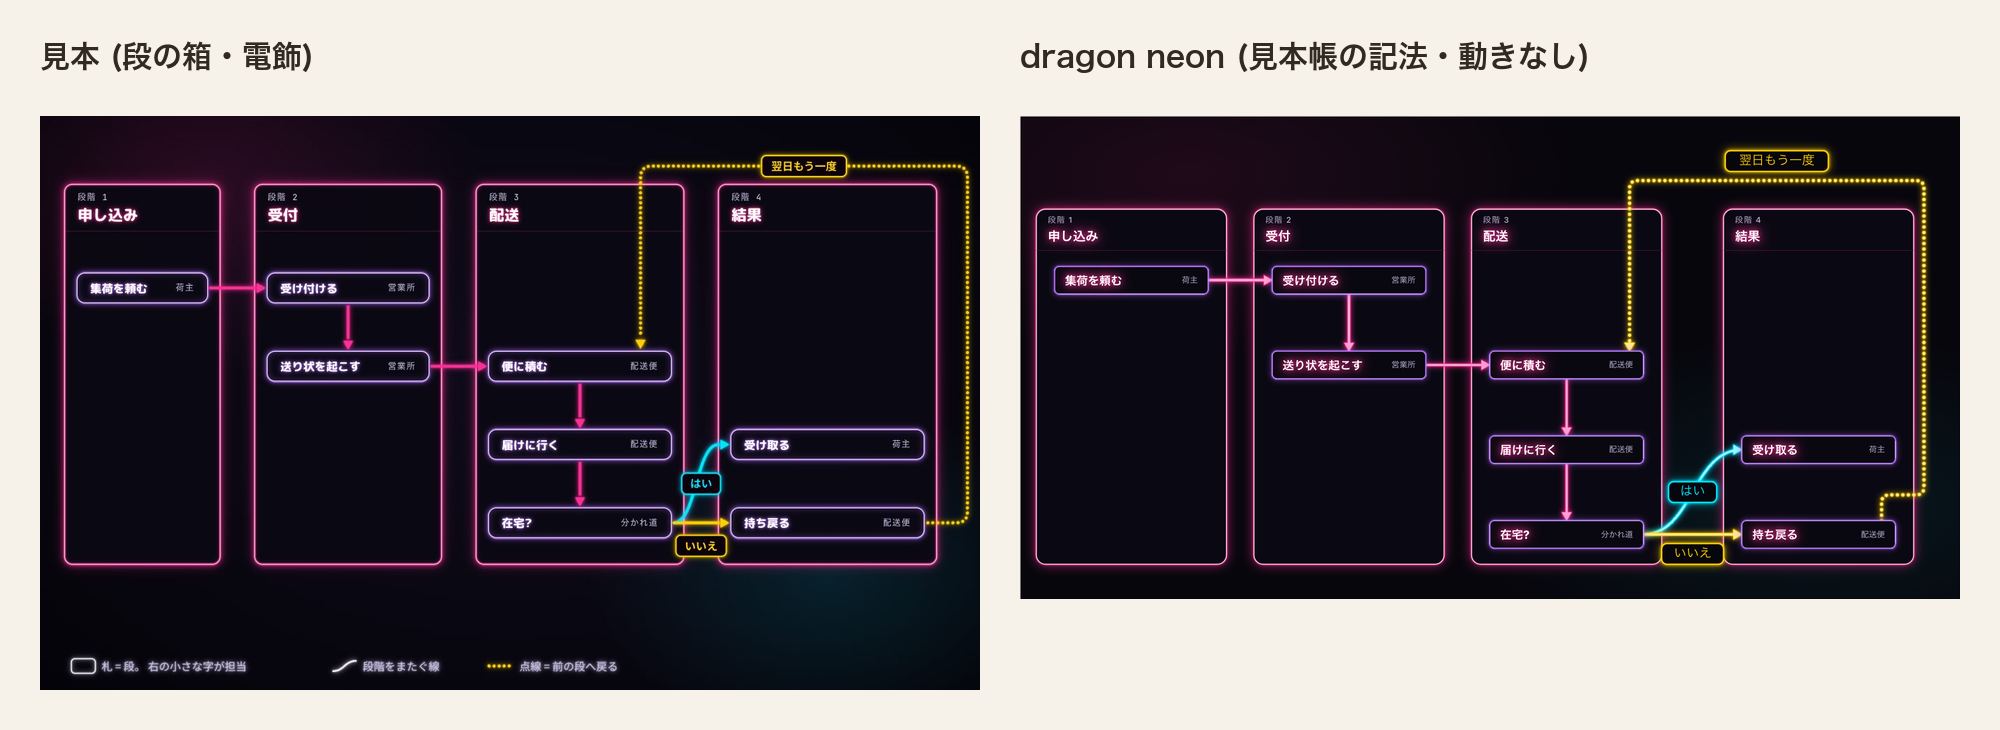
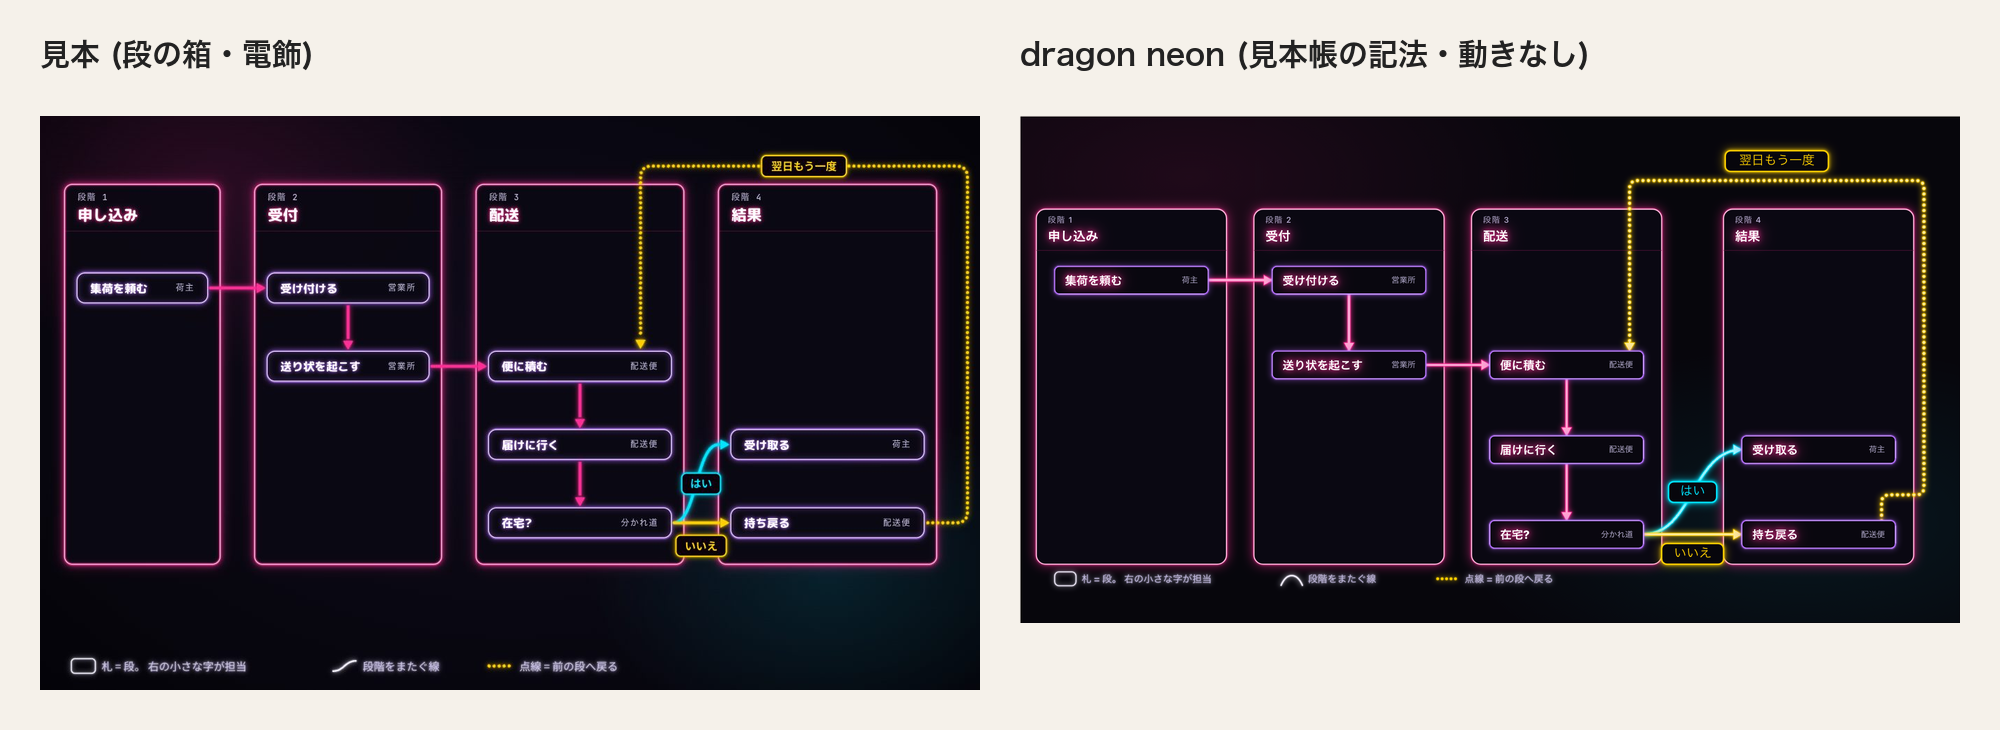
✨ feat(見本帳): 段の箱の見本に見本と同じ3項目の凡例を置く (#2831)
見本 docs/design/proposal/static/段箱-<意匠>.html の図の下の凡例と同じ 3 項目 (札 = 段。 右の小さな字が担当 / 段階をまたぐ線 / 点線 = 前の段へ戻る) を、見本帳の段の箱の記法と JSON に legend で足す。
印は cdl 0.125.0 の legend が持つ rounded-label / curved-line / dotted-line を使う。
固定の 7 意匠の段の箱では、角丸の枠を塗りなし、曲線を太さ 3 にし、図面と浮彫の凡例の字を見本の色にする。
点線は段の箱が描く前の段へ戻る線と同じ色で、浮彫は対比のため #966c22 を保つ。
7 つの意匠帳に凡例の行を足し、比較画像 7 枚を凡例を入れた形で撮り直した。

Constraint: 凡例の字の大きさ 17、角丸の枠 46 x 30 rx 9、曲線の形、項目の送り、凡例の位置は cdl の LEGEND_MARK_RENDERERS / layoutLegend が決めるため dragon では揃えない
Rejected: 浮彫の点線を見本の #c99a35 にする | 白い字との対比のため決めた戻る線の色 #966c22 と食い違う
Confidence: high
Scope-risk: narrow

Changed region(s): [[0.496, 0.7836, 0.992, 0.874], [0.496, 0.0603, 0.806, 0.1205], [0.0, 0.0301, 0.155, 0.1205]]

diff --git a/apps/playground-spa/src/lib/stage-theme-contract.test.ts b/apps/playground-spa/src/lib/stage-theme-contract.test.ts
@@ -7,6 +7,57 @@ const css = readFileSync(fileURLToPath(new URL("../styles/cdl-theme.css", import
 const fixedPalettes =
   ':is([data-cdl-palette="blueprint"], [data-cdl-palette="letterpress"], [data-cdl-palette="catalog"], [data-cdl-palette="terminal"], [data-cdl-palette="sketch"], [data-cdl-palette="neon"], [data-cdl-palette="relief"])';
 const fixedStages = `svg[data-cdl-stage]${fixedPalettes}:has([data-cdl-role="stage-column"])`;
+const legendColors = [
+  {
+    palette: "blueprint",
+    markProperty: "--er-ink",
+    mark: "#143a52",
+    dotted: "#a8431f",
+    text: "#4d7187",
+  },
+  {
+    palette: "letterpress",
+    markProperty: "--er-ink",
+    mark: "#1a1510",
+    dotted: "#1a1510",
+    text: "#6b6253",
+  },
+  {
+    palette: "catalog",
+    markProperty: "--theme-ground-ink",
+    mark: "#efe7d8",
+    dotted: "#e8705a",
+    text: "#a39a87",
+  },
+  {
+    palette: "terminal",
+    markProperty: "--theme-flow-mark",
+    mark: "#a6f0bd",
+    dotted: "#f5c451",
+    text: "#7f9186",
+  },
+  {
+    palette: "sketch",
+    markProperty: "--er-ink",
+    mark: "#2b2620",
+    dotted: "#2a5ca8",
+    text: "#6d6456",
+  },
+  {
+    palette: "neon",
+    markProperty: "--er-ink",
+    mark: "#f3eefe",
+    dotted: "#ffd000",
+    text: "#c4bce0",
+  },
+  {
+    palette: "relief",
+    markProperty: "--er-ink",
+    mark: "#463e33",
+    dotted: "#966c22",
+    text: "#7a7062",
+  },
+] as const;
 
 function ruleBody(selector: string): string {
   const start = css.indexOf(`${selector} {`);
@@ -44,6 +95,70 @@ describe("固定の 7 意匠の段の箱を見本の線で描く (#2831)", () =>
     expect(declaration(body, "stroke-width")).toBe("6 !important");
     expect(declaration(body, "stroke-dasharray")).toBe("0 9.6 !important");
     expect(declaration(body, "stroke-linecap")).toBe("round !important");
+  });
+
+  it("段の箱の凡例だけ、角丸枠を塗らず曲線を太さ 3 にする", () => {
+    const rounded = ruleBody(`${fixedStages} [data-cdl-legend-mark="rounded-label"] > rect`);
+    expect(declaration(rounded, "fill")).toBe("none");
+
+    const curved = ruleBody(`${fixedStages} [data-cdl-legend-mark="curved-line"] > path`);
+    expect(declaration(curved, "stroke-width")).toBe("3");
+  });
+
+  it.each(legendColors)(
+    "$palette の凡例を印 $mark・点線 $dotted・字 $text で描く",
+    ({ palette, markProperty, mark, dotted, text }) => {
+      const paletteBody = ruleBody(`svg[data-cdl-stage][data-cdl-palette="${palette}"]`);
+      expect(declaration(paletteBody, markProperty)).toBe(mark);
+      expect(declaration(paletteBody, "--er-own")).toBe(dotted);
+      const errorProperty = /^var\((--[^)]+)\)$/.exec(declaration(paletteBody, "--d-err"))?.[1];
+      expect(errorProperty, "戻り線が読む色の変数").toBeDefined();
+      if (!errorProperty) return;
+      expect(declaration(paletteBody, errorProperty)).toBe(dotted);
+
+      if (palette === "blueprint" || palette === "relief") {
+        const selector = `svg[data-cdl-stage]:is([data-cdl-palette="${palette}"]):has([data-cdl-role="stage-column"]) [data-cdl-role="legend-text"]`;
+        expect(declaration(ruleBody(selector), "fill")).toBe(text);
+        return;
+      }
+      const textProperty =
+        palette === "catalog"
+          ? "--theme-ground-type"
+          : palette === "terminal"
+            ? "--theme-legend-text"
+            : "--er-type";
+      expect(declaration(paletteBody, textProperty)).toBe(text);
+    },
+  );
+
+  it("凡例の枠と曲線は印色を、点線は戻り線色を読む", () => {
+    const palette = ruleBody('svg[data-cdl-stage][data-cdl-palette]');
+    expect(declaration(palette, "--d-text-primary")).toBe("var(--er-ink)");
+    expect(declaration(palette, "--cdl-text-mute")).toBe("var(--er-type)");
+
+    const legend = ruleBody(
+      'svg[data-cdl-stage][data-cdl-palette="relief"] [data-cdl-role="legend"]',
+    );
+    expect(declaration(legend, "--cdl-text-accent")).toBe(
+      "var(--theme-flow-mark, var(--d-text-primary))",
+    );
+    const dotted = ruleBody(
+      'svg[data-cdl-stage][data-cdl-palette="relief"] [data-cdl-legend-mark="dotted-line"]',
+    );
+    expect(declaration(dotted, "--cdl-text-accent")).toBe("var(--er-own)");
+
+    expect(
+      declaration(
+        ruleBody('svg[data-cdl-stage][data-cdl-palette="catalog"] [data-cdl-role="legend-text"]'),
+        "fill",
+      ),
+    ).toBe("var(--theme-ground-type)");
+    expect(
+      declaration(
+        ruleBody('svg[data-cdl-stage][data-cdl-palette="terminal"] [data-cdl-role="legend-text"]'),
+        "fill",
+      ),
+    ).toBe("var(--theme-legend-text)");
   });
 
   it("14 の枠の三角を横 17・縦 19 にする", () => {

diff --git a/apps/playground-spa/src/lib/catalog-value-coverage.test.ts b/apps/playground-spa/src/lib/catalog-value-coverage.test.ts
@@ -615,20 +615,14 @@ const 道の覆い方表: Record<string, 道の覆い方> = {
   "$.relations=off": { 種類: "既定", 別の値: "hover" },
   "$.theme": { 種類: "画面の切替", 選択肢: 配色の選択肢 },
   "$.palette=celadon": { 種類: "画面の切替", 選択肢: 配色の選択肢 },
-  // #2834 は見本帳の図を変えず、記法一覧と README で凡例を見せる。 10 種の印は schema と描画側の一覧を突き合わせる。
-  "$.legend": { 種類: "記法一覧", 理由: "凡例は記法一覧で見せる" },
-  "$.legend[].mark": { 種類: "記法一覧", 理由: "印は記法一覧で見せる" },
+  // 段の箱で使わない印は、記法一覧と README で見せる。10 種の印は schema と描画側の一覧を突き合わせる。
   "$.legend[].mark=arrow": { 種類: "記法一覧", 理由: "印の一覧は README で見せる" },
-  "$.legend[].mark=curved-line": { 種類: "記法一覧", 理由: "印の一覧は README で見せる" },
   "$.legend[].mark=diamond": { 種類: "記法一覧", 理由: "印の一覧は README で見せる" },
-  "$.legend[].mark=dotted-line": { 種類: "記法一覧", 理由: "印の一覧は README で見せる" },
   "$.legend[].mark=double-circle": { 種類: "記法一覧", 理由: "印の一覧は README で見せる" },
   "$.legend[].mark=filled-circle": { 種類: "記法一覧", 理由: "印の一覧は README で見せる" },
   "$.legend[].mark=numbered-circle": { 種類: "記法一覧", 理由: "印の一覧は README で見せる" },
-  "$.legend[].mark=rounded-label": { 種類: "記法一覧", 理由: "印の一覧は README で見せる" },
   "$.legend[].mark=solid-line": { 種類: "記法一覧", 理由: "印の一覧は README で見せる" },
   "$.legend[].mark=station": { 種類: "記法一覧", 理由: "印の一覧は README で見せる" },
-  "$.legend[].text": { 種類: "記法一覧", 理由: "説明は記法一覧で見せる" },
 };
 
 /**

diff --git a/apps/playground-spa/src/styles/cdl-theme.css b/apps/playground-spa/src/styles/cdl-theme.css
@@ -2717,6 +2717,23 @@ svg[data-cdl-stage]:is([data-cdl-palette="blueprint"], [data-cdl-palette="letter
   stroke-width: 5 !important;
 }
 
+/* 段の箱の凡例だけを見本の印へ寄せる。全図共通の凡例 (#2834) は変えない。 */
+svg[data-cdl-stage]:is([data-cdl-palette="blueprint"], [data-cdl-palette="letterpress"], [data-cdl-palette="catalog"], [data-cdl-palette="terminal"], [data-cdl-palette="sketch"], [data-cdl-palette="neon"], [data-cdl-palette="relief"]):has([data-cdl-role="stage-column"]) [data-cdl-legend-mark="rounded-label"] > rect {
+  fill: none;
+}
+
+svg[data-cdl-stage]:is([data-cdl-palette="blueprint"], [data-cdl-palette="letterpress"], [data-cdl-palette="catalog"], [data-cdl-palette="terminal"], [data-cdl-palette="sketch"], [data-cdl-palette="neon"], [data-cdl-palette="relief"]):has([data-cdl-role="stage-column"]) [data-cdl-legend-mark="curved-line"] > path {
+  stroke-width: 3;
+}
+
+svg[data-cdl-stage]:is([data-cdl-palette="blueprint"]):has([data-cdl-role="stage-column"]) [data-cdl-role="legend-text"] {
+  fill: #4d7187;
+}
+
+svg[data-cdl-stage]:is([data-cdl-palette="relief"]):has([data-cdl-role="stage-column"]) [data-cdl-role="legend-text"] {
+  fill: #7a7062;
+}
+
 /* 戻り線は丸い点を 9.6 ごとに置く。線の太さは主役と枝より 1 太い。 */
 svg[data-cdl-stage]:is([data-cdl-palette="blueprint"], [data-cdl-palette="letterpress"], [data-cdl-palette="catalog"], [data-cdl-palette="terminal"], [data-cdl-palette="sketch"], [data-cdl-palette="neon"], [data-cdl-palette="relief"]):has([data-cdl-role="stage-column"]) [data-cdl-role="edge-line"][stroke-dasharray="10 8"] {
   stroke-width: 6 !important;

diff --git a/packages/dragon/test/catalog-swimlane-stages.test.ts b/packages/dragon/test/catalog-swimlane-stages.test.ts
@@ -42,4 +42,33 @@ describe("見本帳の段階ごとの箱 (#2797)", () => {
     expect(home, "在宅? -> 受け取る の道筋").toBeDefined();
     expect(home).toMatch(/\bC\b/);
   });
+
+  it("見本と同じ順の3項目を記法に持ち、組み立てた凡例へ渡す", () => {
+    const item = 段階の見本()[0];
+    expect(item).toBeDefined();
+    if (!item) return;
+    expect(item.source).toContain(`legend:
+  - { mark: rounded-label, text: "札 = 段。 右の小さな字が担当" }
+  - { mark: curved-line, text: "段階をまたぐ線" }
+  - { mark: dotted-line, text: "点線 = 前の段へ戻る" }`);
+
+    const diagram = textDslToDiagram(item.source);
+    expect(diagram.legend).toEqual([
+      { mark: "rounded-label", text: "札 = 段。 右の小さな字が担当" },
+      { mark: "curved-line", text: "段階をまたぐ線" },
+      { mark: "dotted-line", text: "点線 = 前の段へ戻る" },
+    ]);
+    const markup = renderToStaticMarkup(createElement(CdlDiagramView, { diagram }));
+    expect(
+      [...markup.matchAll(/data-cdl-legend-mark="([^"]+)"/g)].map((match) => match[1]),
+    ).toEqual(["rounded-label", "curved-line", "dotted-line"]);
+    expect(markup).toMatch(
+      /data-cdl-legend-mark="rounded-label"[\s\S]*?<rect[^>]+stroke-width="2"/,
+    );
+    expect(markup).toMatch(
+      /data-cdl-legend-mark="dotted-line"[\s\S]*?<path[^>]+stroke-width="6"[^>]+stroke-linecap="round"[^>]+stroke-dasharray="0 9\.6"/,
+    );
+    expect(markup).toContain('stroke="var(--cdl-text-accent, #143a52)"');
+    expect(markup).toContain('fill="var(--cdl-text-mute, #4d7187)"');
+  });
 });

diff --git a/apps/playground-spa/src/topics/catalog/text-dsl.cdl.ts b/apps/playground-spa/src/topics/catalog/text-dsl.cdl.ts
@@ -403,6 +403,11 @@ flow:
   - 在宅? -> 持ち戻る: "いいえ" (error)
   - 持ち戻る -> 便に積む: "翌日もう一度" (error, dashed)
 
+legend:
+  - { mark: rounded-label, text: "札 = 段。 右の小さな字が担当" }
+  - { mark: curved-line, text: "段階をまたぐ線" }
+  - { mark: dotted-line, text: "点線 = 前の段へ戻る" }
+
 animation:
   - step: "申し込む" 1.2s
     focus: [集荷を頼む, 受け付ける, "集荷を頼む -> 受け付ける"]
@@ -455,6 +460,11 @@ export const sourceJson__textDslSwimlaneStages = `{
     { "from": "在宅?", "to": "受け取る", "label": "はい", "tone": "success" },
     { "from": "在宅?", "to": "持ち戻る", "label": "いいえ", "tone": "error" },
     { "from": "持ち戻る", "to": "便に積む", "label": "翌日もう一度", "tone": "error", "style": "dashed" }
+  ],
+  "legend": [
+    { "mark": "rounded-label", "text": "札 = 段。 右の小さな字が担当" },
+    { "mark": "curved-line", "text": "段階をまたぐ線" },
+    { "mark": "dotted-line", "text": "点線 = 前の段へ戻る" }
   ],
   "animation": [
     {

diff --git a/docs/design/blueprint/note.md b/docs/design/blueprint/note.md
@@ -39,6 +39,7 @@
 | 段階の見出し | 番号 `#3f6479`、名前 `#143a52` |
 | 札の右の字 | `#3f6479` |
 | 段の箱の線の札 | 線は主役と枝が 5、戻る点線が 6 の `0 9.6`、三角の矢じりが 17 × 19。「はい」は向きだけ `#1f7a6b`、「いいえ」と「翌日もう一度」は所有 `#a8431f` で塗る。字は縞 `#eef2f3`、角は 9、枠なし |
+| 段の箱の凡例 | 「札 = 段。 右の小さな字が担当」は角丸枠、「段階をまたぐ線」は曲線、「点線 = 前の段へ戻る」は丸い点線。枠と曲線は `#143a52`、点線は `#a8431f`、字は `#4d7187` |
 
 似た青系の線、型名、淡が隣り合わないように並べた。6 色は全て台の上で 3 以上の対比になる。
 描き手は処理の箱の枠を半分の濃さで描くが、図面の台の上では 2.66 となり、枠の下限 4.61 を割るため、

diff --git a/docs/design/terminal/note.md b/docs/design/terminal/note.md
@@ -57,6 +57,7 @@
 | 段階の見出し     | 番号 `#8a9b90`、名前 `#9ef0b4` に一 35% の `0 0 10px` の光 |
 | 札の右の字       | `#8a9b90` |
 | 段の箱の線の札   | 線は主役と枝が 5、戻る点線が 6 の `0 9.6`、三角の矢じりが 17 × 19。はいは二 `#c792ea`、いいえ・翌日もう一度は三 `#f5c451` の面。字は台 `#050b07`、角 4px、枠なし |
+| 段の箱の凡例     | 「札 = 段。 右の小さな字が担当」は角丸枠、「段階をまたぐ線」は曲線、「点線 = 前の段へ戻る」は丸い点線。枠と曲線は `#a6f0bd`、点線は `#f5c451`、字は `#7f9186` |
 
 描き手が札の `g` に置く `data-cdl-tone` から一・二・三を選ぶ。
 `data-cdl-edge-role="main"` は色みにかかわらず一で塗る。

diff --git a/docs/design/letterpress/note.md b/docs/design/letterpress/note.md
@@ -49,6 +49,7 @@
 | 段階の見出し | 番号 `#6b6253`、名前 `#1a1510` |
 | 札の右の字 | `#6b6253` |
 | 段の箱の線の札 | 線は主役と枝が 5、戻る点線が 6 の `0 9.6`、三角の矢じりが 17 × 19。「はい」「いいえ」「翌日もう一度」は墨 `#1a1510` で塗る。字は地 `#f0eadc`、角は 9、枠なし |
+| 段の箱の凡例 | 「札 = 段。 右の小さな字が担当」は角丸枠、「段階をまたぐ線」は曲線、「点線 = 前の段へ戻る」は丸い点線。枠・曲線・点線は `#1a1510`、字は `#6b6253` |
 
 描き手は処理の箱の枠を半分の濃さで描く。台と箱の面が同じ活版でも枠の下限 4.61 を保つため、
 固定の意匠では枠の濃さを 1 にする。

diff --git a/docs/design/neon/note.md b/docs/design/neon/note.md
@@ -51,6 +51,7 @@
 | 段階の見出し     | 番号 `#c4bce0`、名前 `#ffffff` に一の `0 0 5px` と一 60% の `0 0 12px` の光 |
 | 札の右の字       | `#c4bce0` |
 | 段の箱の線の札   | 線は主役と枝が 5、戻る点線が 6 の `0 9.6`、三角の矢じりが 17 × 19。台 `#07060c` の面。はいは二 `#00e5ff`、いいえ・翌日もう一度は三 `#ffd000` の字と 2.5 の枠、角 9px |
+| 段の箱の凡例     | 「札 = 段。 右の小さな字が担当」は角丸枠、「段階をまたぐ線」は曲線、「点線 = 前の段へ戻る」は丸い点線。枠と曲線は `#f3eefe`、点線は `#ffd000`、字は `#c4bce0` |
 
 ## 管と光
 

diff --git a/docs/design/sketch/note.md b/docs/design/sketch/note.md
@@ -51,6 +51,7 @@
 | 段階の見出し     | 番号 `#6d6456`、名前 `#2b2620` |
 | 札の右の字       | `#6d6456` |
 | 段の箱の線の札   | 線は主役と枝が 5、戻る点線が 6 の `0 9.6`、三角の矢じりが 17 × 19。はいは二 `#2f7d4f`、いいえ・翌日もう一度は三 `#2a5ca8` の面。字は行の面 `#fffdf7`、角 9px、枠なし |
+| 段の箱の凡例     | 「札 = 段。 右の小さな字が担当」は角丸枠、「段階をまたぐ線」は曲線、「点線 = 前の段へ戻る」は丸い点線。枠と曲線は `#2b2620`、点線は `#2a5ca8`、字は `#6d6456` |
 
 ## 線の揺れとペンの斜線
 

diff --git a/docs/design/catalog/note.md b/docs/design/catalog/note.md
@@ -56,6 +56,7 @@
 | 段階の見出し     | 番号 `#6f6757`、名前 `#1d242e` |
 | 札の右の字       | `#6f6757` |
 | 段の箱の線の札   | 線は主役と枝が 5、戻る点線が 6 の `0 9.6`、三角の矢じりが 17 × 19。はいは二 `#4fae9a`、いいえ・翌日もう一度は三 `#e8705a` の面。字は台 `#1b222c`、角 9px、枠なし |
+| 段の箱の凡例     | 「札 = 段。 右の小さな字が担当」は角丸枠、「段階をまたぐ線」は曲線、「点線 = 前の段へ戻る」は丸い点線。枠と曲線は `#efe7d8`、点線は `#e8705a`、字は `#a39a87` |
 
 ## 見送ったこと
 

diff --git a/docs/design/relief/note.md b/docs/design/relief/note.md
@@ -52,6 +52,7 @@
 | 段階の見出し     | 番号 `#685e51`、名前 `#463e33` |
 | 札の右の字       | `#685e51` |
 | 段の箱の線の札   | 線は主役と枝が 5、戻る点線が 6 の `0 9.6`、三角の矢じりが 17 × 19。はいは二 `#2f7a6e`、いいえ・翌日もう一度は三 `#966c22` の面。字は白 `#ffffff`、角 20px、枠なし |
+| 段の箱の凡例     | 「札 = 段。 右の小さな字が担当」は角丸枠、「段階をまたぐ線」は曲線、「点線 = 前の段へ戻る」は丸い点線。枠と曲線は `#463e33`、点線は `#966c22`、字は `#7a7062` |
 
 ## 影と窪み
 
